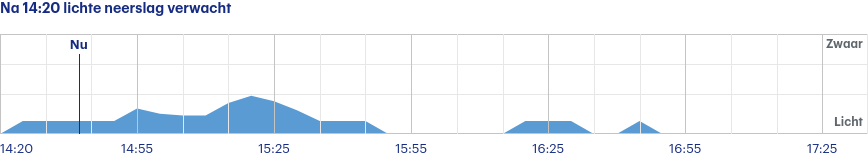
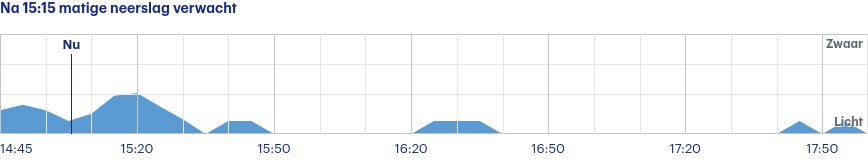
Latest scraping buienradar: Sat Aug  5 13:01:30 UTC 2023

diff --git a/scrapes/buienradar/buienradar-jette-3-uur.md b/scrapes/buienradar/buienradar-jette-3-uur.md
@@ -1,4 +1,4 @@
-Na 14:20 lichte neerslag verwacht
+Na 15:15 matige neerslag verwacht
 
 ![](buienradar-jette-3-uur.png)
 
